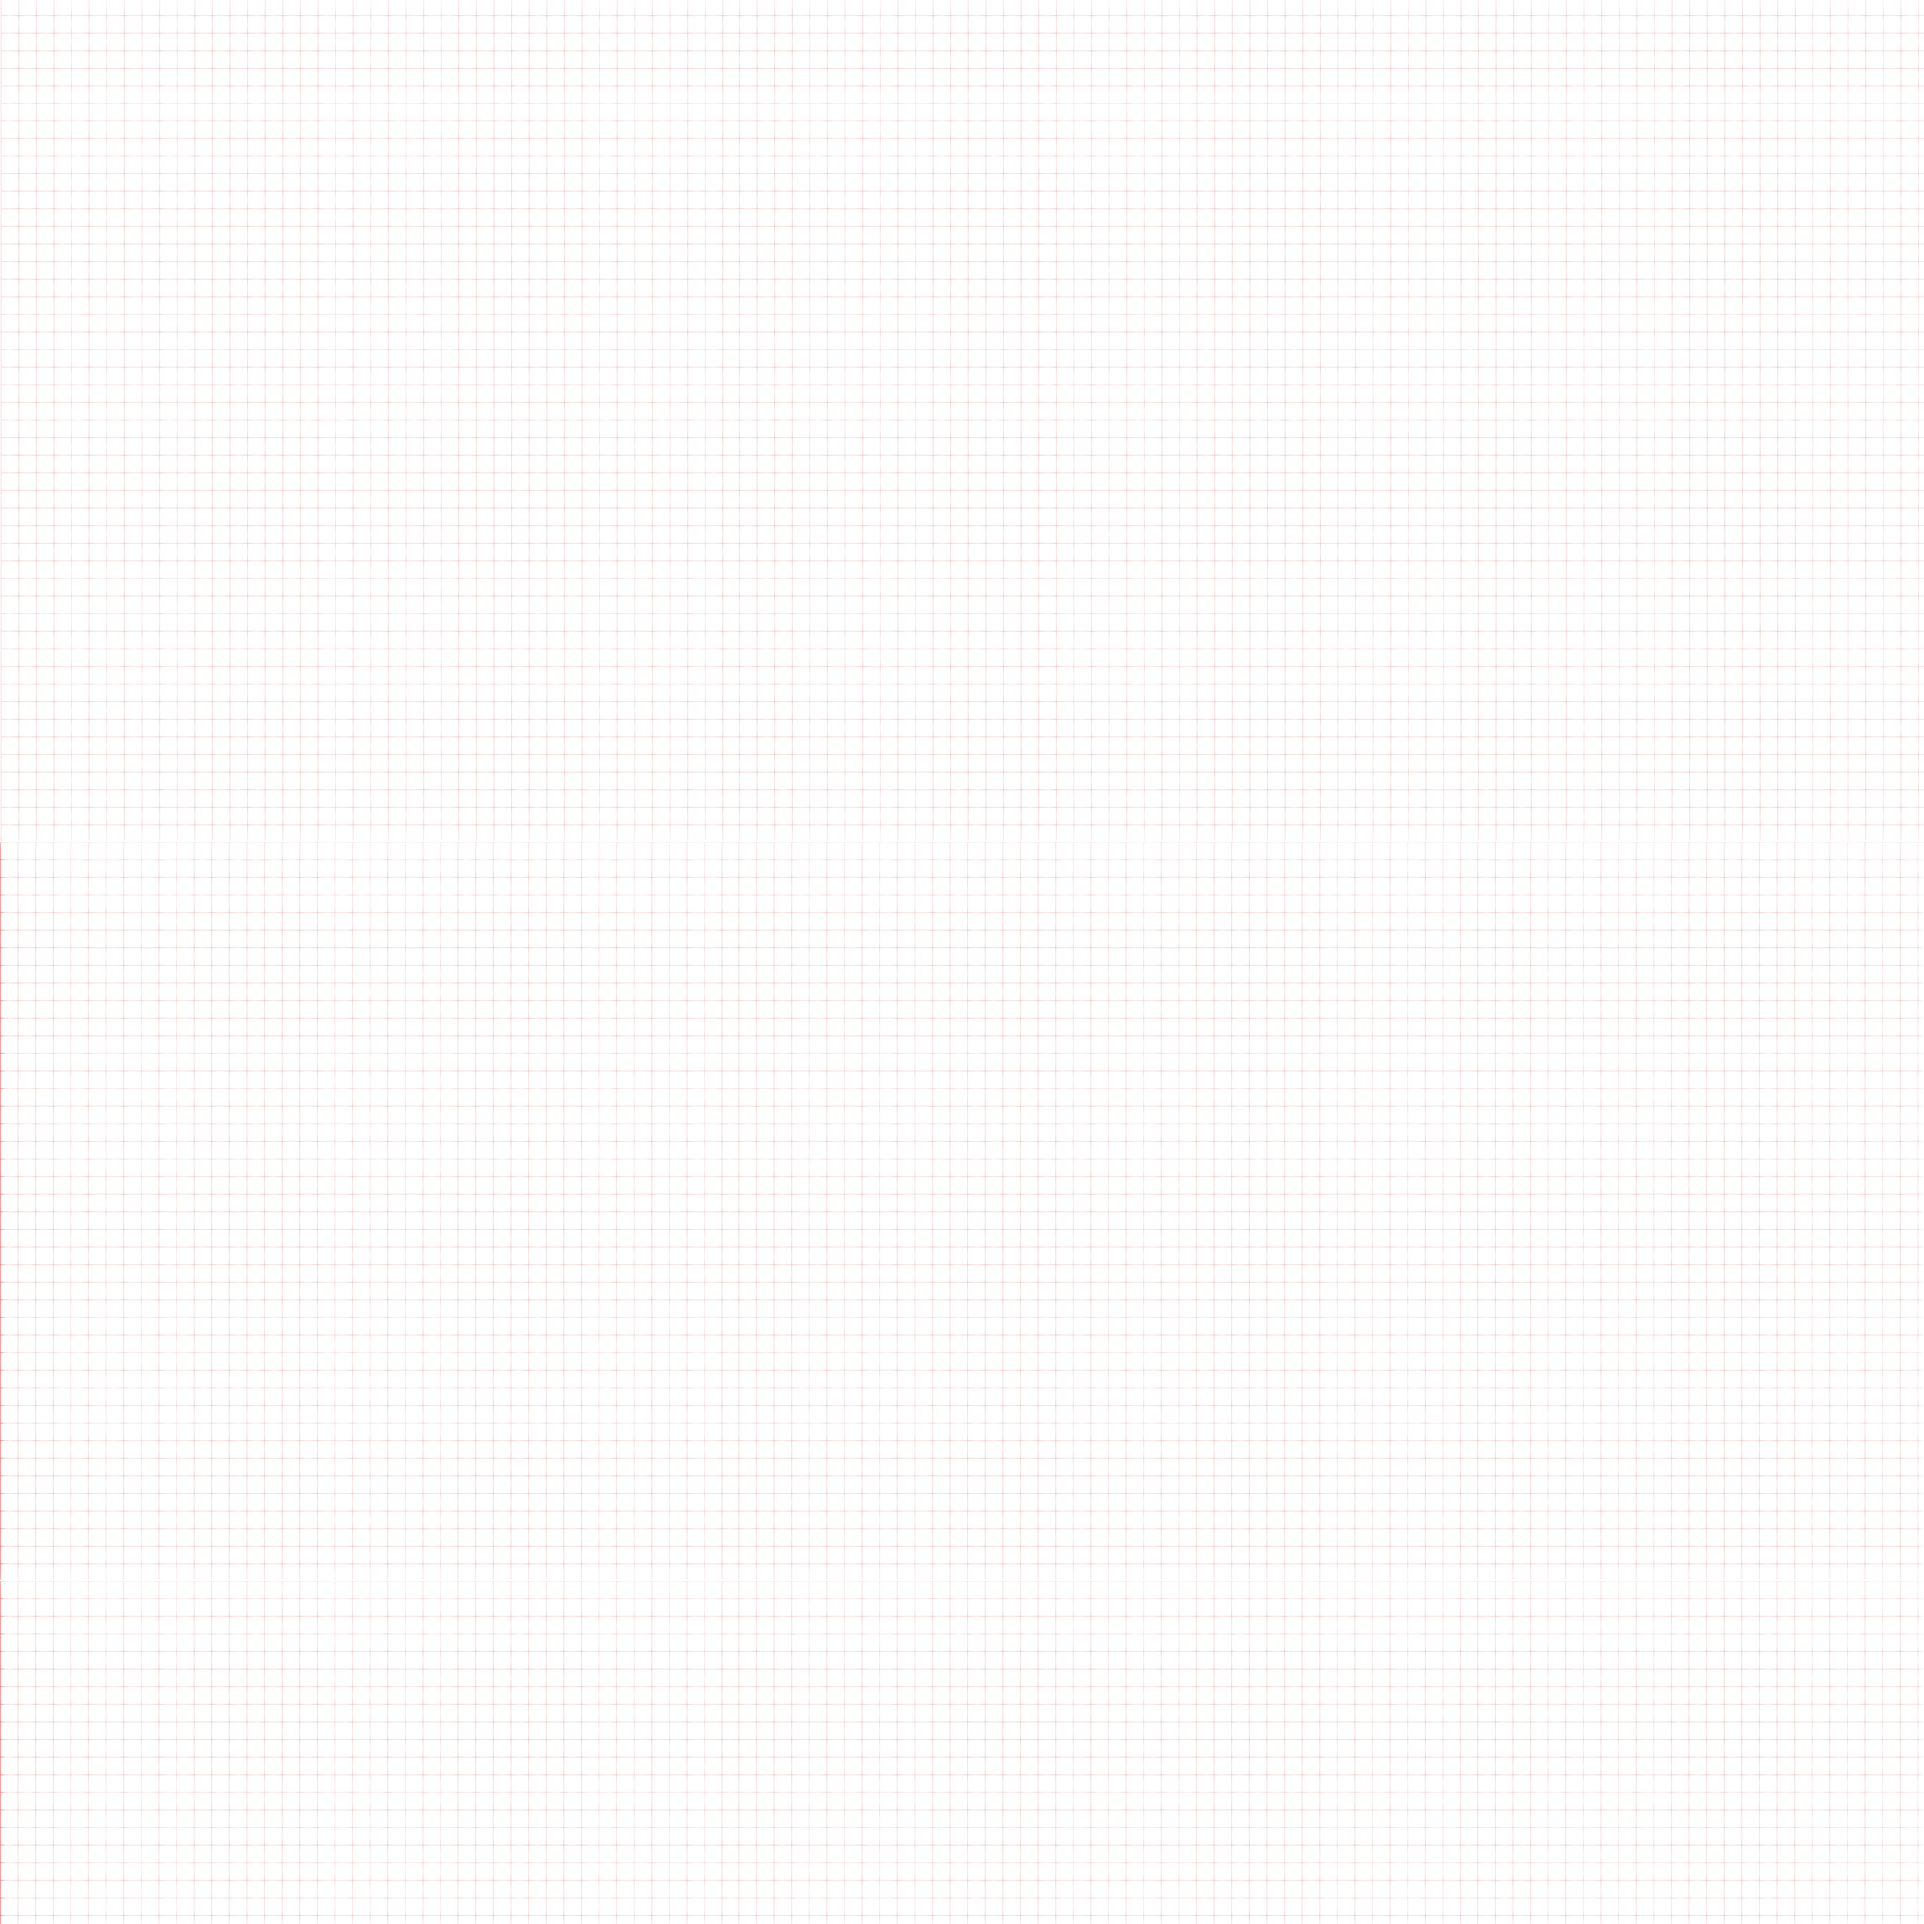
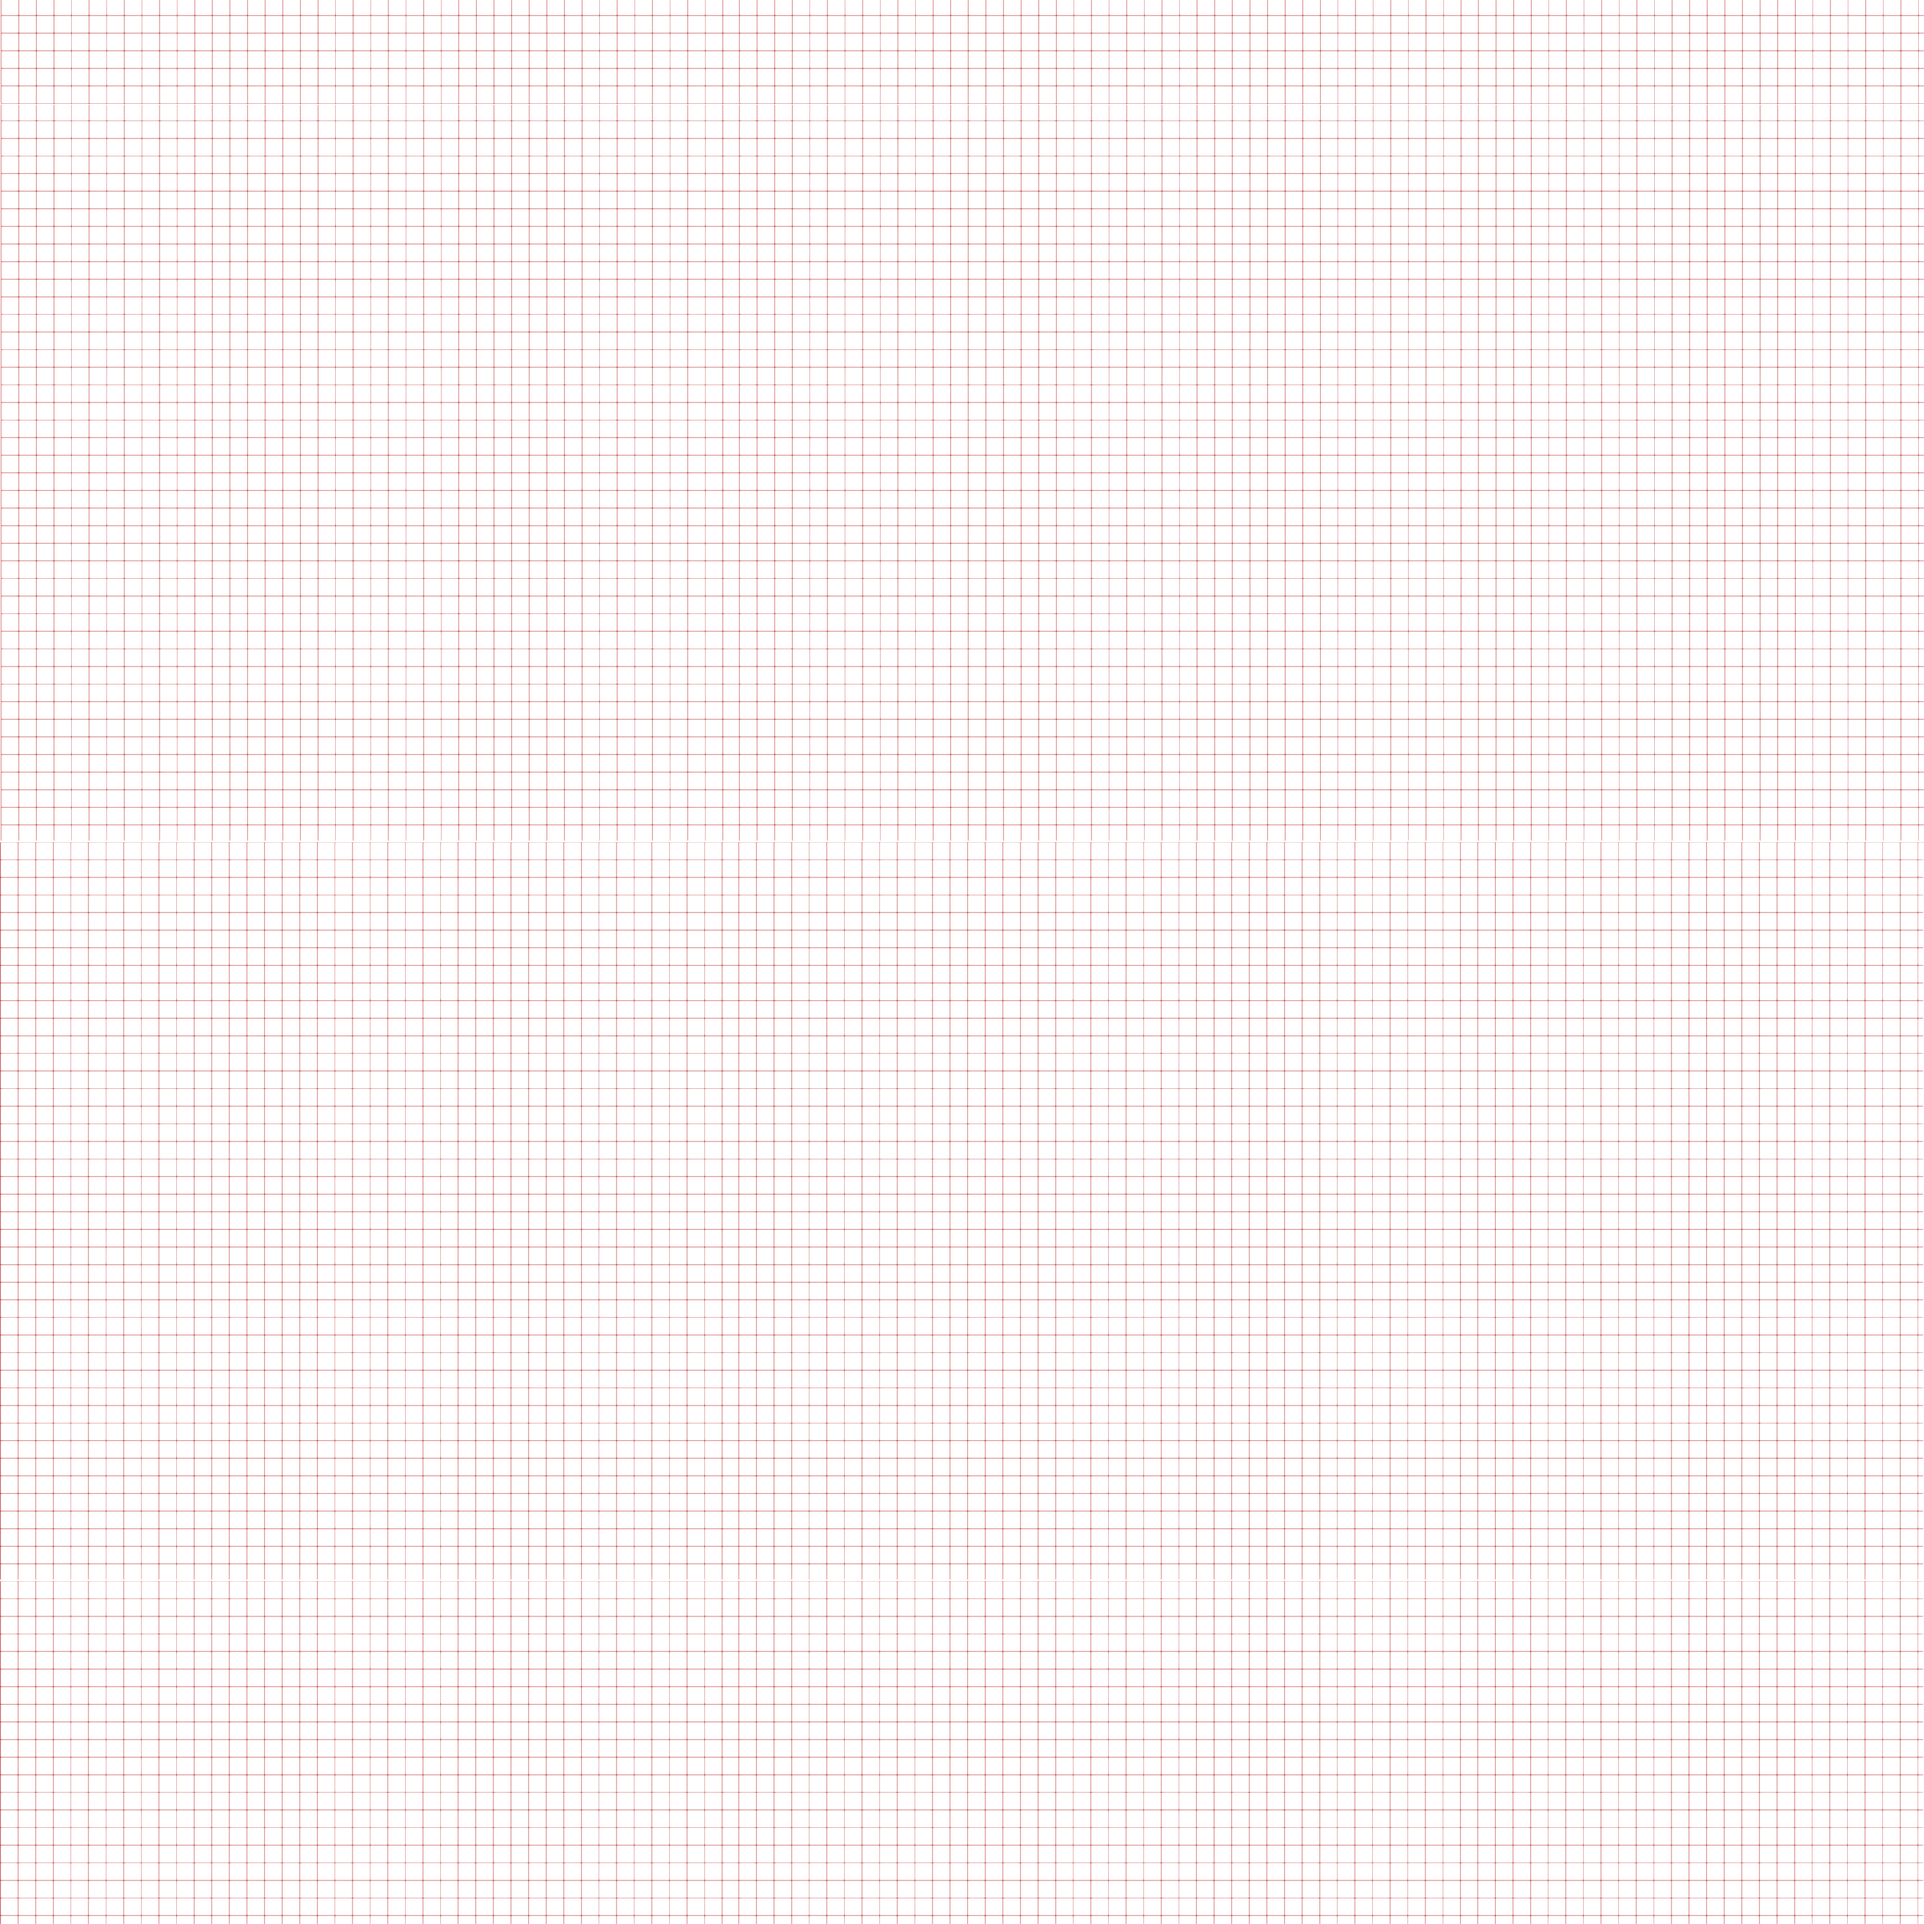
new floor

Changed region(s): [[0.0, 0.0, 1.0, 1.0]]

diff --git a/InnovationLab.js b/InnovationLab.js
@@ -21,7 +21,7 @@ function start(){
 
 	if(!isHololens()){
 		wrap(floor(10, 0))
-			.texture("https://i.imgur.com/fZH0DIO.png")
+			.texture("https://github.com/Franimal/theta-ar-scripts/raw/master/innovation-showcase/TiledGrid.png")
 			.color(0, 0.3, 1, 0.9)
 			.emit(0, 1, 1, 1);	
 	}
